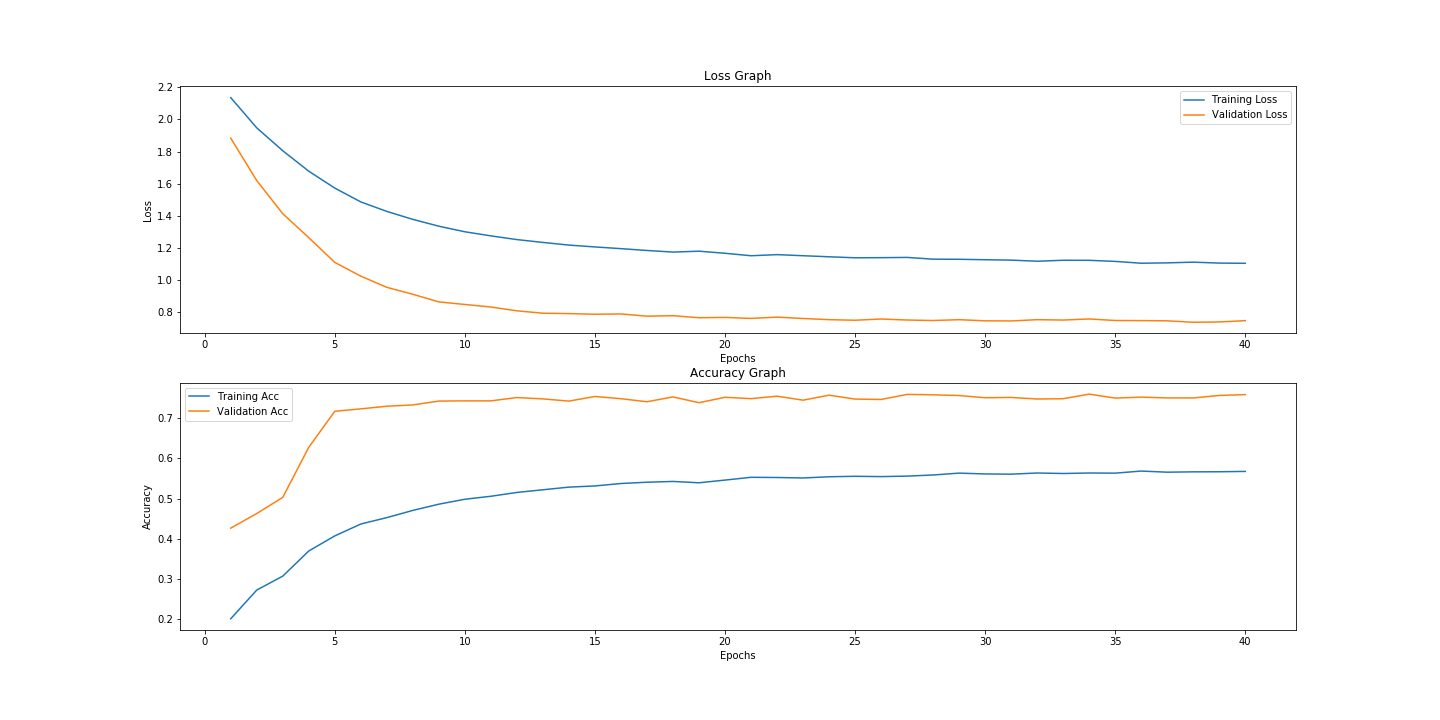
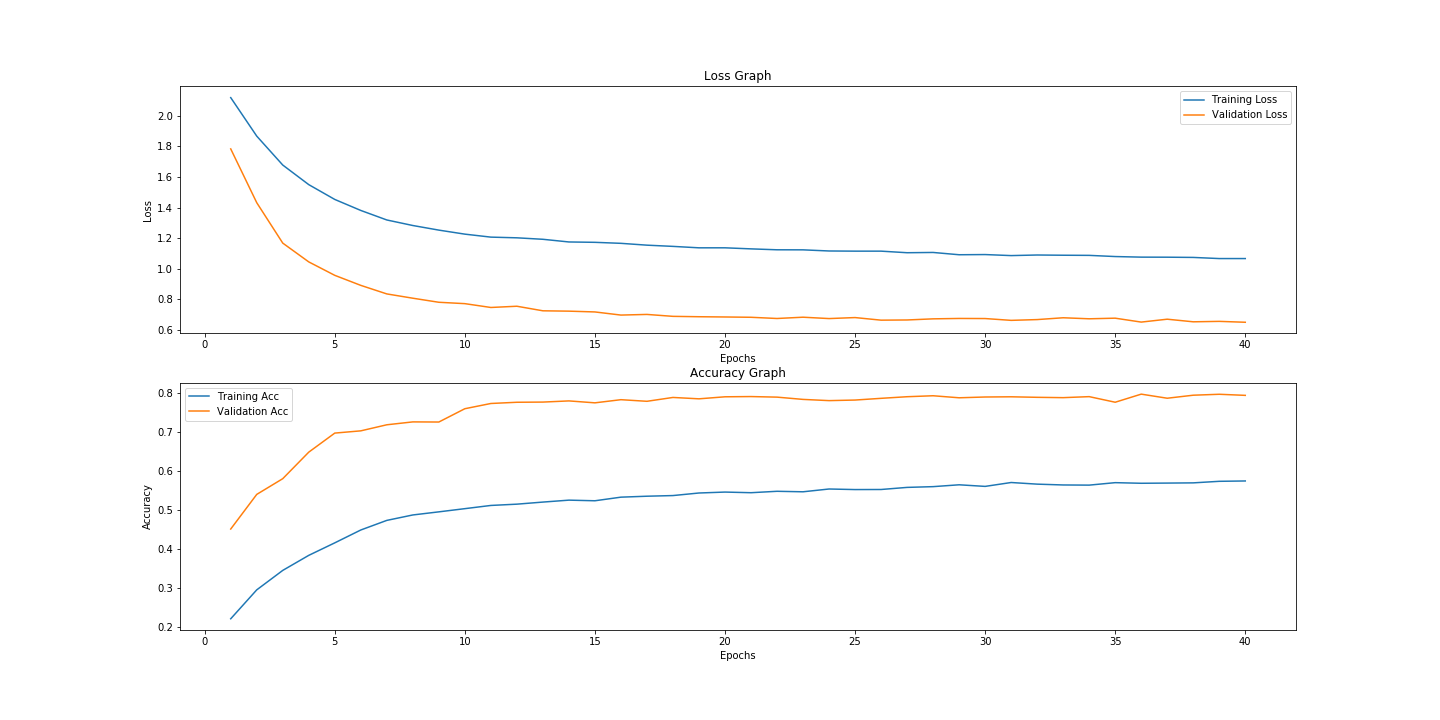
fashion mnist with conv2D

diff --git a/fashion_mnist_trial_with_convnets.py b/fashion_mnist_trial_with_convnets.py
@@ -1,0 +1,130 @@
+# -*- coding: utf-8 -*-
+"""
+Created on Wed Jan  2 17:04:12 2019
+
+@author: Karan.Verma
+"""
+
+from keras import models
+from keras import layers
+from keras.datasets import fashion_mnist
+import numpy as np
+import matplotlib.pyplot as plt
+from keras.utils import to_categorical, plot_model
+import operator
+
+(train_x, train_y), (test_x, test_y) = fashion_mnist.load_data()
+
+def shape(arr):
+    x = np.reshape(arr, (len(arr), 28, 28, 1))
+    return x
+
+#epochs
+e = 5
+
+#prediction array
+eval_arr = {}
+pred_arr = {}
+
+
+#label summary
+label_list = {0: 'T-shirt/top', 1: 'Trouser', 2:'Pullover', 3:'Dress', 4:'Coat', 5:'Sandal', 6:'Shirt', 7:'Sneaker', 8:'Bag', 9:'Ankle boot'}
+
+#path
+output_dir_model = r'C:\Users\karan.verma\.spyder-py3\deep-learning\models'
+
+train_x_reshaped = shape(train_x).astype('float32')/255
+train_y = to_categorical(train_y)
+train_y = train_y.astype('float32')
+
+test_x_reshaped = shape(test_x).astype('float32')/255
+test_y = to_categorical(test_y)
+test_y = test_y.astype('float32')
+
+#take out validation data, 25% = 15,000 samples
+
+partial_train_x = train_x_reshaped[:int(len(train_x_reshaped)*0.75)]
+partial_train_y = train_y[:int(len(train_y)*0.75)]
+
+val_x = train_x_reshaped[int(len(train_x_reshaped)*0.75):]
+val_y = train_y[int(len(train_y)*0.75):]
+
+#make model
+model = models.Sequential()
+model.add(layers.Conv2D(32, (3, 3), activation='relu', input_shape=(28, 28, 1)))
+model.add(layers.MaxPool2D((2, 2)))
+model.add(layers.Conv2D(64, (3, 3), activation='relu'))
+model.add(layers.MaxPool2D((2, 2)))
+model.add(layers.Conv2D(64, (3, 3), activation='relu'))
+model.add(layers.Flatten())
+model.add(layers.Dense(64, activation='relu'))
+model.add(layers.Dense(10, activation = 'sigmoid'))
+
+#compile model
+model.compile(optimizer = 'rmsprop',
+              loss = 'categorical_crossentropy',
+              metrics=['accuracy'])
+
+#model fit
+
+history = model.fit(partial_train_x,
+                    partial_train_y,
+                    epochs = e,
+                    batch_size=64,
+                    validation_data=(val_x, val_y),
+                    verbose = 1)
+
+acc_list = history.history
+fig, ax = plt.subplots(2,1, figsize=(20, 10))
+
+plt.subplot(211)
+plt.plot(np.arange(1, e+1), acc_list['loss'], label='Training Loss')
+plt.plot(np.arange(1, e+1), acc_list['val_loss'], label='Validation Loss')
+plt.title('Loss Graph')
+plt.xlabel('Epochs')
+plt.ylabel('Loss')
+plt.legend()
+
+plt.subplot(212)
+plt.plot(np.arange(1, e+1), acc_list['acc'], label='Training Acc')
+plt.plot(np.arange(1, e+1), acc_list['val_acc'], label='Validation Acc')
+plt.title('Accuracy Graph')
+plt.xlabel('Epochs')
+plt.ylabel('Accuracy')
+plt.legend()
+
+#plt.tight_layout()
+fig.savefig('{}/Model figure.png'.format(output_dir_model))            
+plt.clf()
+
+eval_arr['Model'] = model.evaluate(test_x_reshaped, test_y)
+pred_arr['Model']= np.argmax(model.predict(test_x_reshaped), axis=1)
+
+
+#plot_model(model, to_file='{}/model.png'.format(output_dir_model)) # this is kinda useless ! :|
+
+#get best model from eval_arr
+best_model = {}
+
+for key, val in eval_arr.items():
+    best_model[key] = val[1]
+
+print('The best model is: {}'.format(max(best_model.items(), key=operator.itemgetter(1))))
+
+#should also consider the loss of the best model....? right? high acc ...very high loss...is this good??
+
+#Building Prediction Pipeline
+#('Model having 1 hidden layers & 128 units in each hidden layer and 512 units in the outer layer',0.8953) but it varies
+
+prediction = model.predict(test_x_reshaped)
+
+print('Random samples from the test data: ')
+fig, ax = plt.subplots(2, 3, figsize=(20, 10))
+for i in range(1, 7):
+        c = np.random.choice(len(test_x_reshaped))
+        plt.subplot(2,3,i)
+        plt.imshow(test_x[c])
+        plt.title('Original {} & Predicted {}'.format(label_list[np.argmax(test_y[c])], label_list[np.argmax(prediction[c])]))        
+        #plt.tight_layout()
+            
+

diff --git a/fashion_mnist_trial.py b/fashion_mnist_trial.py
@@ -55,9 +55,9 @@ val_y = train_y[int(len(train_y)*0.75):]
 #units_out = [512, 256, 128, 64, 32, 16]
 #units_in = [128, 64, 32, 16]
 
-lyrs = [1, 2, 3]
-units_out = [16, 64, 512]
-units_in = [16, 64, 128]
+lyrs = [1]
+units_out = [512]
+units_in = [128]
 
 #make model
 for lyr in lyrs:
